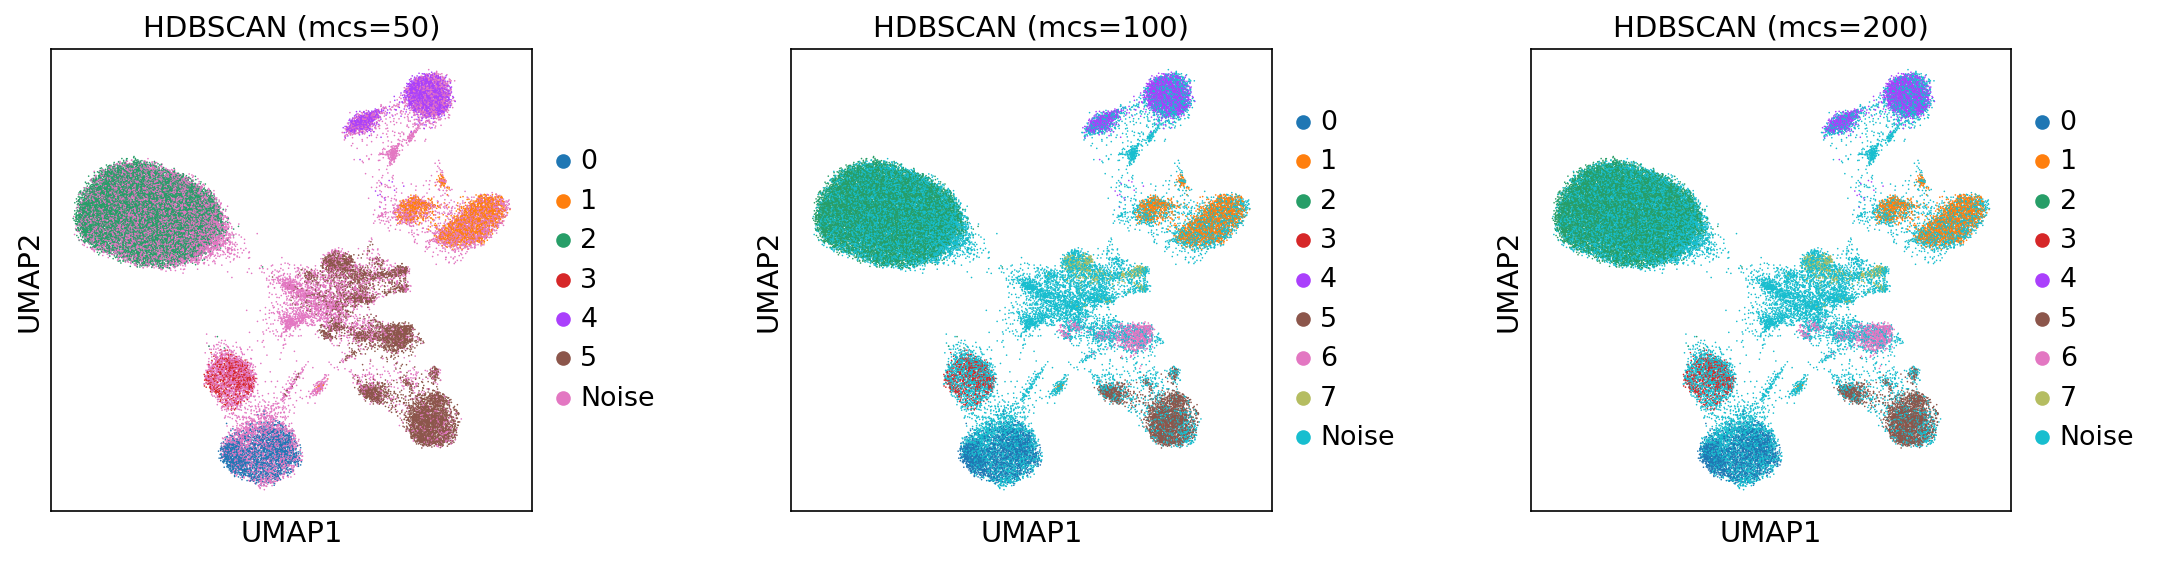
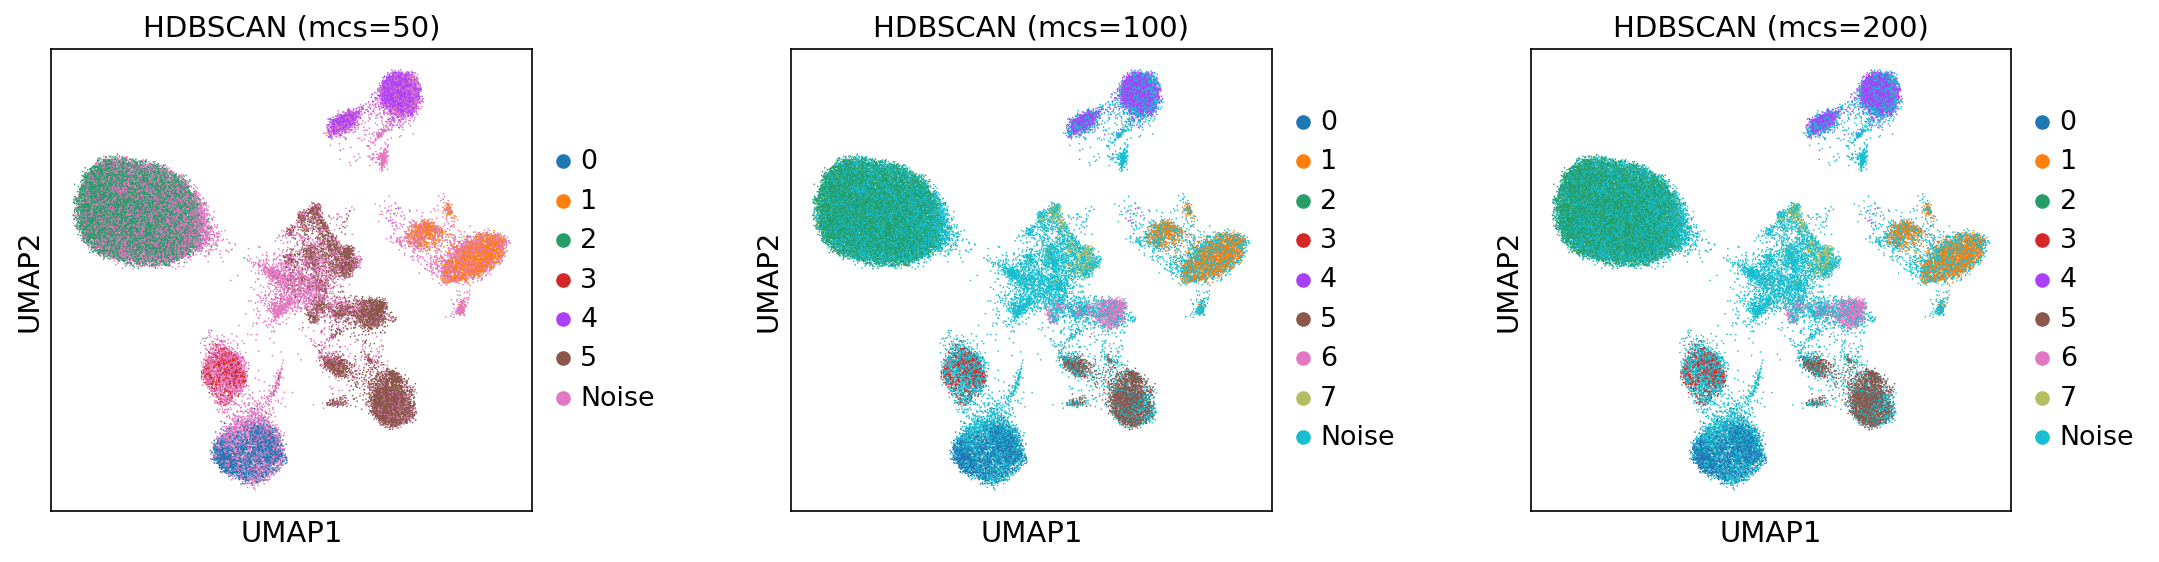
ari vs nmi for ground truth

diff --git a/pipeline.py b/pipeline.py
@@ -167,14 +167,14 @@ print("-" * 54)
 print(f"{'Silhouette Score':<30} {sil_hdbscan:>10.4f} {sil_leiden:>12.4f}  (higher = better)")
 print(f"{'Davies-Bouldin Score':<30} {db_hdbscan:>10.4f} {db_leiden:>12.4f}  (lower = better)")
 
-print(f"\n{'Leiden Resolution':<20} {'# Leiden':<12} {'# HDBSCAN':<12} {'ARI vs Leiden':>14} {'NMI vs Truth':>13}")
+print(f"\n{'Leiden Resolution':<20} {'# Leiden':<12} {'# HDBSCAN':<12} {'ARI vs Leiden':>14} {'ARI vs Truth':>13}")
 print("-" * 73)
-for res in [0.25, 0.5, 1.0]:
+for res in [0.5]:
     leiden_labels = adata_clean.obs[f"leiden_res_{res}"].astype(str)
     ari_vs_leiden = adjusted_rand_score(leiden_labels, hdbscan_str)
-    nmi_vs_truth  = normalized_mutual_info_score(truth_labels, hdbscan_str)
+    ari_vs_truth = adjusted_rand_score(truth_labels, hdbscan_str)
     print(f"{res:<20} {leiden_labels.nunique():<12} {hdbscan_str.nunique():<12} "
-          f"{ari_vs_leiden:>14.4f} {nmi_vs_truth:>13.4f}")
+          f"{ari_vs_leiden:>14.4f} {ari_vs_truth:>13.4f}")
 
 
 ## 5. Cluster Interpretation
